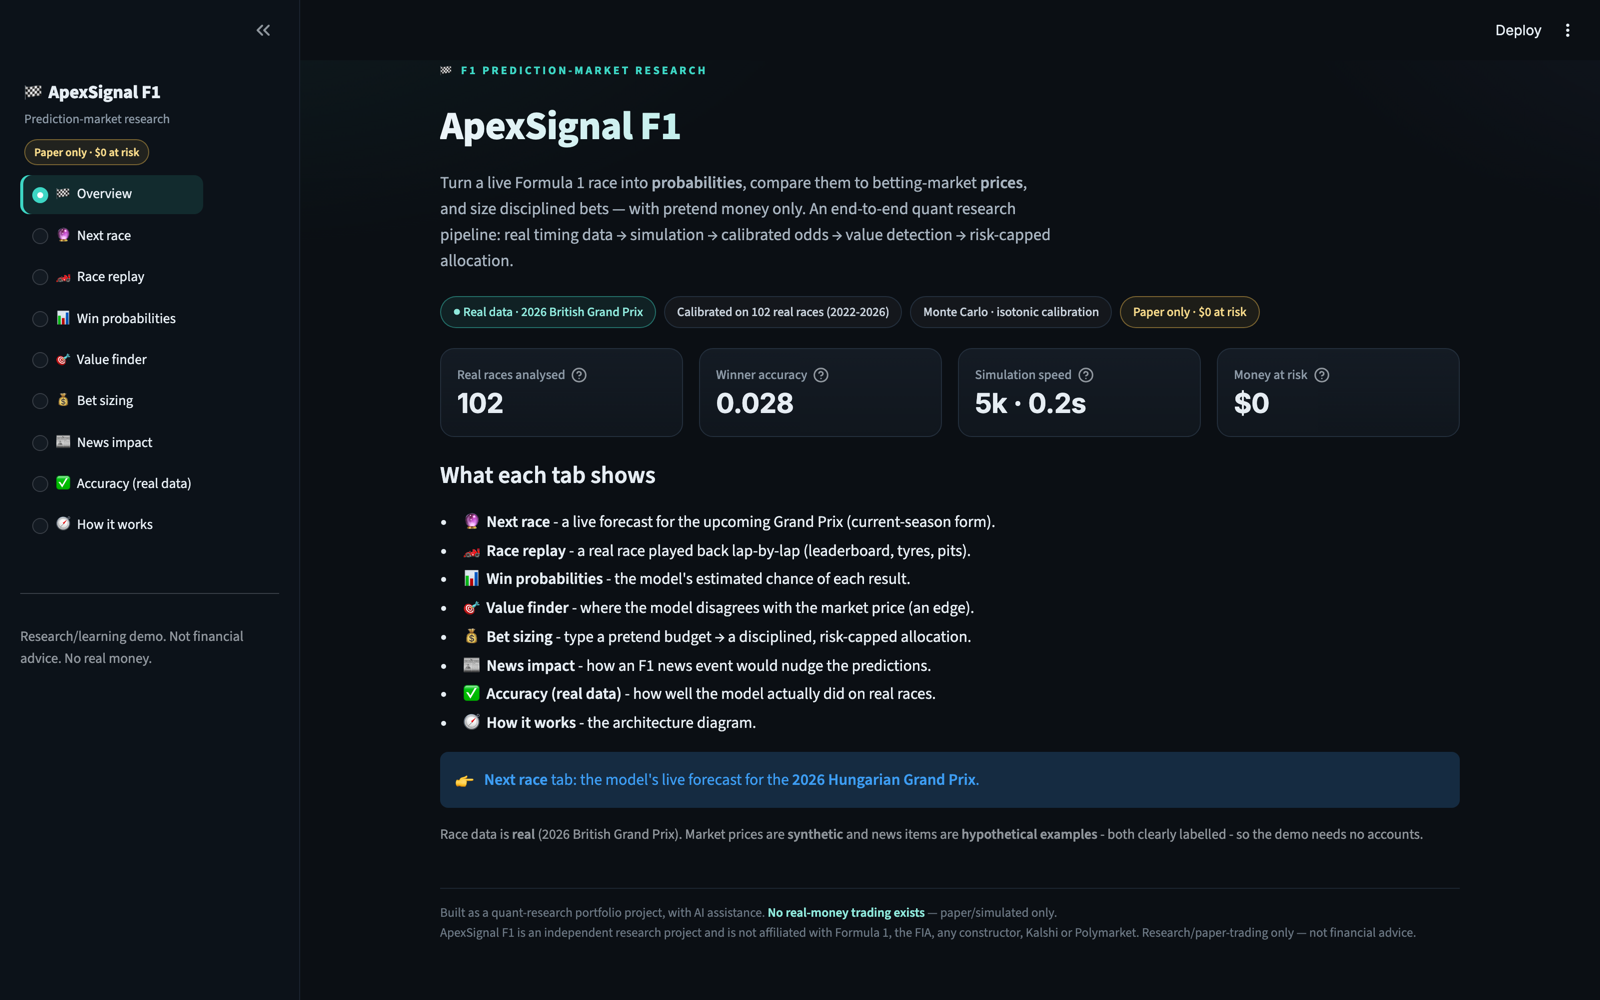
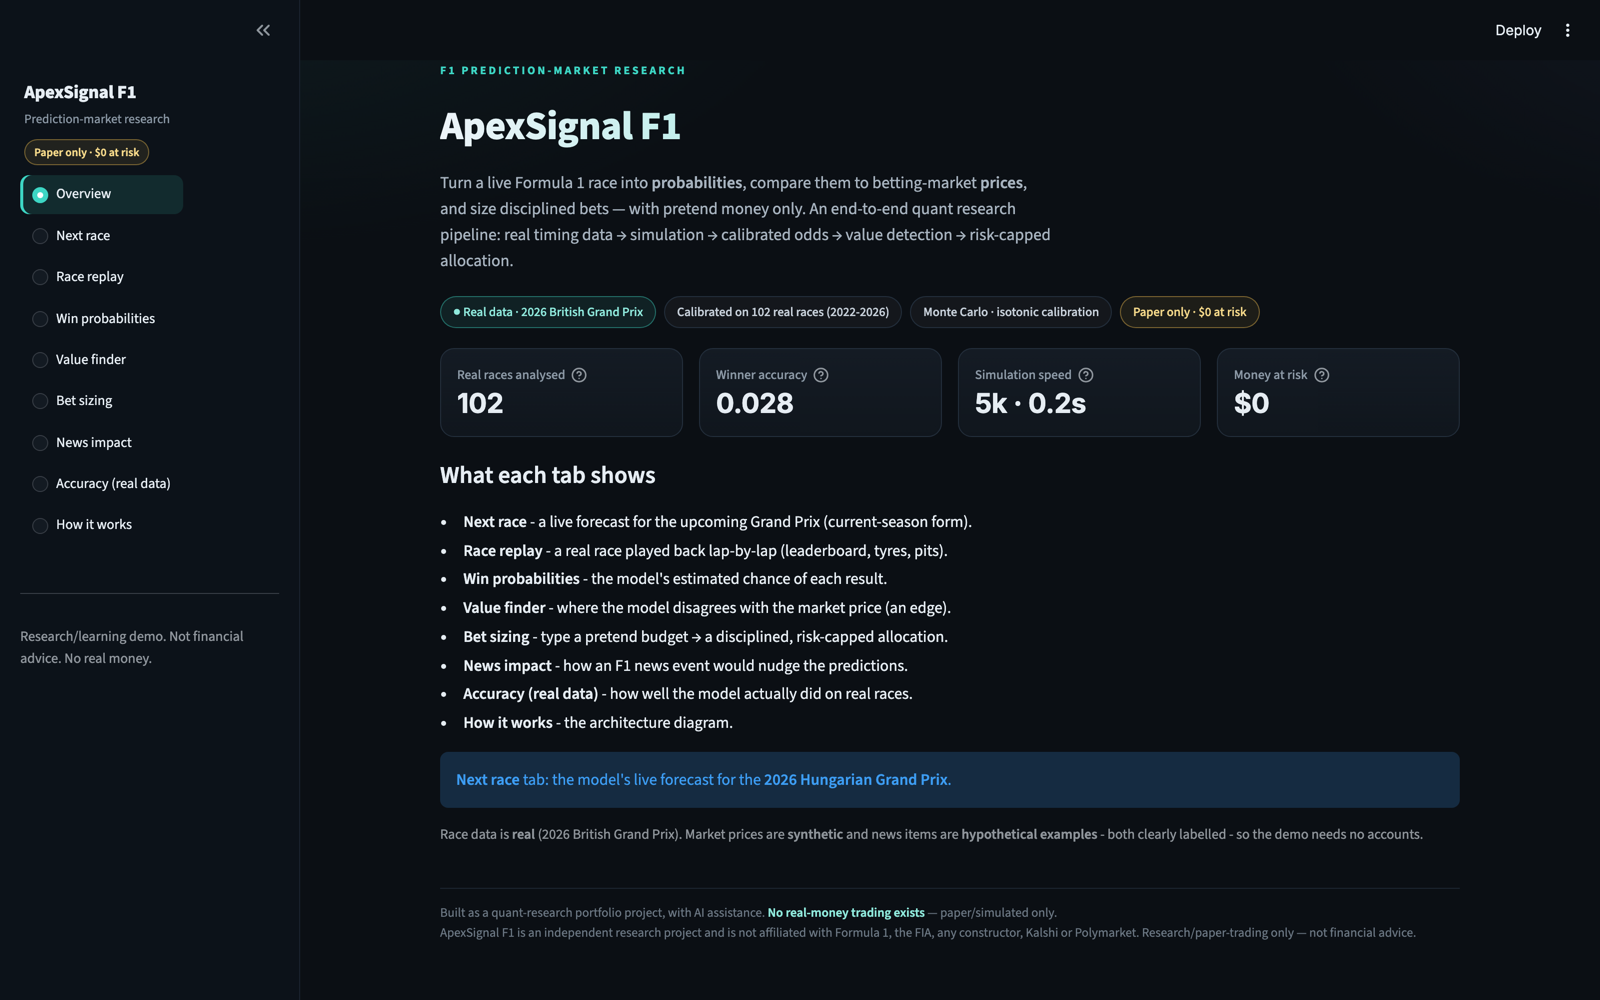
Remove emoji; refresh ApexSignal screenshots to cleaned UI

diff --git a/index.html b/index.html
@@ -508,9 +508,9 @@
                         <p class="work-impact">4M+ signals • 85% human agreement • Analysis Group</p>
                         <p class="work-description">
                             Designed a scalable scraping pipeline ingesting 4M+ product reviews across major e-commerce platforms, 
-                            ➤ then built an unsupervised-to-supervised LLM/NLP workflow to surface review themes, define categories, and scale sentiment and topic labeling. 
-                            ➤ Distilled millions of reviews into 10 client-ready topic themes using LDA and bigram features with pre/post analysis, turning unstructured text into time-series customer-experience KPIs. 
-                            ➤Validated outputs through a human-in-the-loop QA loop — sample-based review, confusion matrices, and LLM-to-LLM comparison — reaching 85% agreement with human reviewers.
+                            then built an unsupervised-to-supervised LLM/NLP workflow to surface review themes, define categories, and scale sentiment and topic labeling. 
+                            Distilled millions of reviews into 10 client-ready topic themes using LDA and bigram features with pre/post analysis, turning unstructured text into time-series customer-experience KPIs. 
+                            Validated outputs through a human-in-the-loop QA loop — sample-based review, confusion matrices, and LLM-to-LLM comparison — reaching 85% agreement with human reviewers.
                         </p>
                         <div class="work-tags">
                             <span class="tag">OpenAI API</span>
